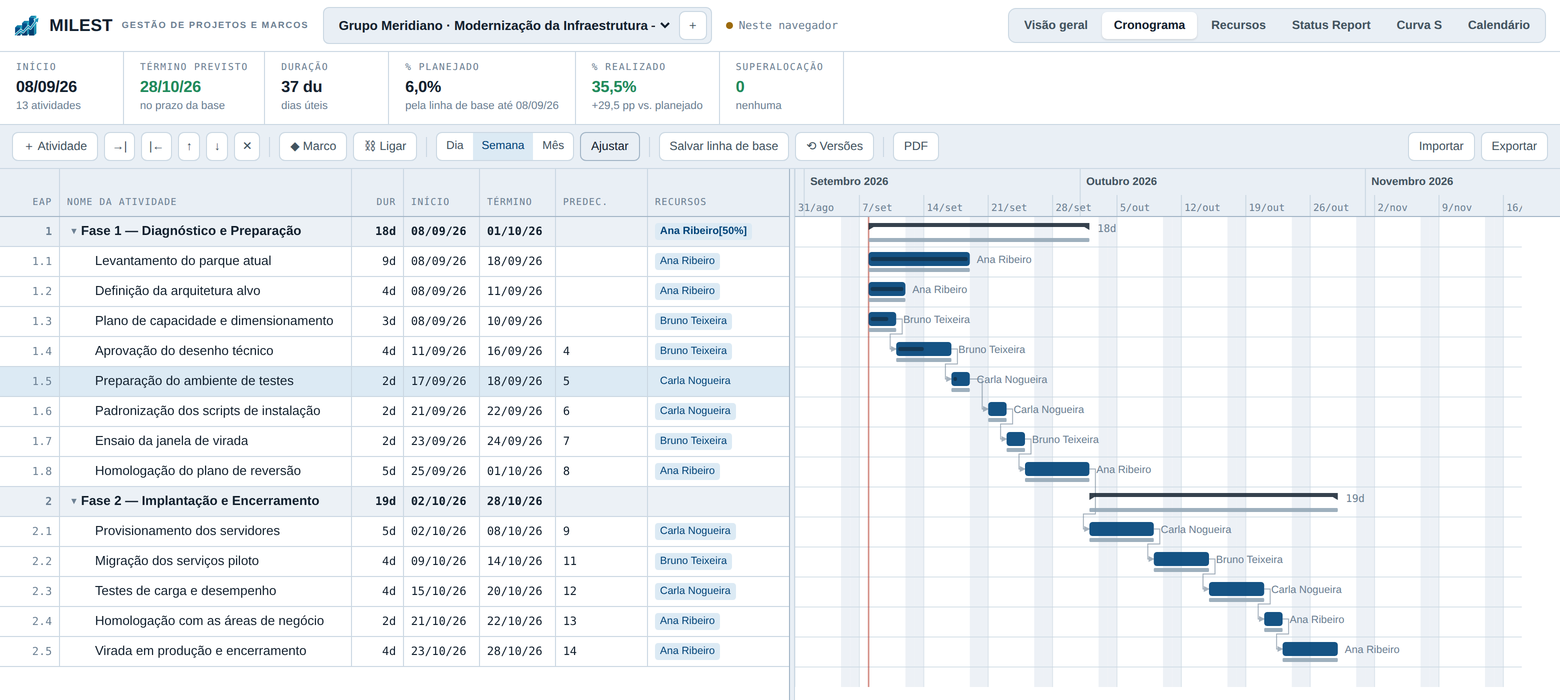
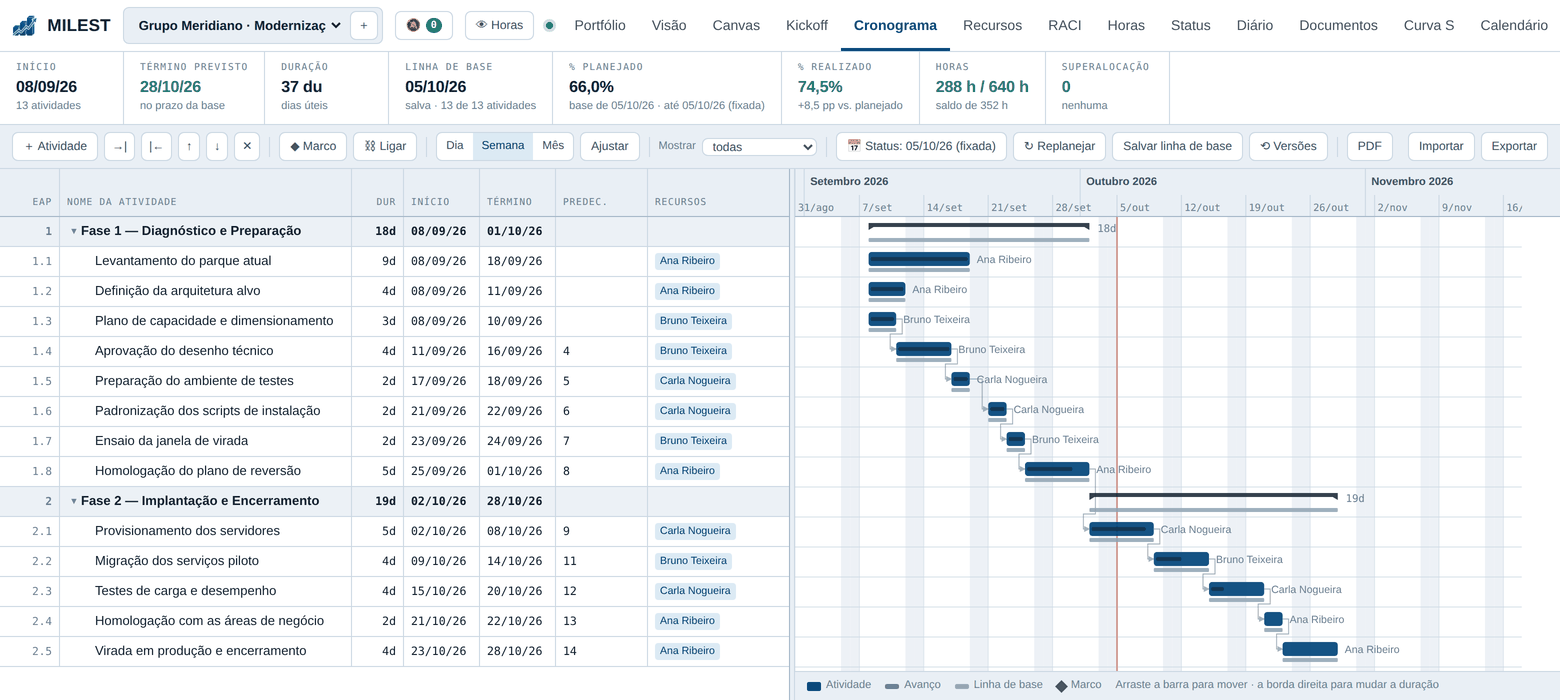
A landing conta o que o MILEST virou desde setembro
A página vendia cronograma, curva S e status report. De lá para cá entraram
RACI, kickoff, diário com tabelas, status report por e-mail, cronograma como
imagem, porte e situação da carteira, pesquisa de satisfação e backup diário
— e a captura do topo ainda mostrava uma barra de abas com seis itens, quando
hoje são treze. Era essa imagem, mais do que o texto, que datava a página.

Seis recursos novos na grade (que fecha em 15, cinco fileiras de três, sem
buraco) e um item novo em segurança, com a grade passando a duas colunas para
os quatro fecharem dois a dois. Os dois cartões de status report viraram um:
era o mesmo recurso descrito duas vezes, uma com entrega.

A captura do topo foi gerada de novo a partir do app construído, com o mesmo
projeto fictício de antes — Grupo Meridiano —, agora com linha de base salva,
horas lançadas e avanço coerente com a data de status. Continuar com o mesmo
cliente inventado faz a troca ser de atualidade, não de história. E ficou
menor que a anterior: 131 KB contra 314 KB.

O que NÃO entrou, de propósito: o apontamento por analista, que foi construído
hoje e nunca rodou com gente de verdade, e o envio automático do status report
em dia e hora marcados, que tem tela mas não tem o automático. Prometer antes
de usar é o jeito mais rápido de queimar um lançamento.

O vídeo continua o mesmo — eu não tenho como gravá-lo. ROTEIRO-VIDEO.md traz
as sete cenas, o tempo de cada uma, o que preparar antes e o que deixar de
[…]

diff --git a/site/index.html b/site/index.html
@@ -271,7 +271,7 @@ h3{font-size:19px;font-weight:700}
 .seg .rotulo{color:var(--ciano-vivo)}
 .seg .rotulo::before{background:var(--ciano-vivo)}
 .seg .sub{color:#A9C6D6}
-.seg-grid{display:grid;grid-template-columns:repeat(3,1fr);gap:28px;margin-top:40px}
+.seg-grid{display:grid;grid-template-columns:repeat(2,1fr);gap:28px;margin-top:40px}
 .seg-item{padding:26px;border:1px solid rgba(255,255,255,.14);border-radius:10px;background:rgba(255,255,255,.04)}
 .seg-item h3{color:#fff;font-size:17px;margin-bottom:9px}
 .seg-item p{margin:0;font-size:15.5px;color:#A9C6D6;line-height:1.55}
@@ -446,8 +446,9 @@ section[id]{scroll-margin-top:80px}
         <p class="oferta"><b>15 dias grátis</b> sem cartão de crédito</p>
         <h1>Software de <em>gestão de projetos</em> com governança e controle</h1>
         <p class="lead">
-          Cronograma que calcula o caminho crítico, curva S que mostra o avanço real e o status
-          report pronto para a reunião — no mesmo lugar, sem exportar nada para o PowerPoint.
+          Do kickoff ao status report, no mesmo lugar: cronograma que calcula o caminho crítico,
+          curva S com o avanço real e as folhas que você apresenta saindo prontas — sem passar
+          pelo PowerPoint.
         </p>
         <div class="acoes">
           <a class="btn btn-p" href="#avaliacao">Começar avaliação de 15 dias</a>
@@ -456,12 +457,13 @@ section[id]{scroll-margin-top:80px}
         <div class="selos">
           <span>CPM · TI, II, TT e IT</span>
           <span>Curva S física</span>
+          <span>Kickoff e RACI</span>
           <span>Relatórios em PDF</span>
         </div>
       </div>
       <figure class="tela" style="margin:0">
         <img src="img/cronograma.png" width="1560" height="700"
-             alt="Tela do MILEST: cronograma em Gantt com fases, dependências, folgas e percentual concluído.">
+             alt="Tela do MILEST: cronograma em Gantt com fases, dependências, linha de base, horas lançadas e percentual concluído.">
       </figure>
     </div>
   </section>
@@ -507,8 +509,8 @@ section[id]{scroll-margin-top:80px}
           <svg viewBox="0 0 24 24" fill="none" stroke="currentColor" stroke-width="1.6" stroke-linecap="round" stroke-linejoin="round" aria-hidden="true">
             <rect x="3" y="4" width="18" height="14" rx="2"/><path d="M7 9h6M7 13h10M8 21h8"/>
           </svg>
-          <h3>Relatório pronto para a reunião</h3>
-          <p>Status report em folha 16:9 e o cronograma inteiro em uma página de PDF. Com a sua marca, sem passar pelo PowerPoint.</p>
+          <h3>Apresentação pronta para a reunião</h3>
+          <p>Kickoff, status report e matriz RACI em folha 16:9, e o cronograma inteiro em uma página. Com a sua marca, sem passar pelo PowerPoint.</p>
         </article>
       </div>
     </div>
@@ -556,9 +558,24 @@ section[id]{scroll-margin-top:80px}
           <p>Cadastro único de pessoas, compartilhado entre os cronogramas, com a carga diária e o alerta de superalocação.</p>
         </article>
         <article class="rec">
+          <span class="n">Controle</span>
+          <h3>Porte e situação da carteira</h3>
+          <p>Cada projeto classificado por tamanho, pelas horas previstas, e a situação ajustável à mão — porque nem todo projeto com indicador bom merece passar batido na sua apresentação.</p>
+        </article>
+        <article class="rec">
+          <span class="n">Governança</span>
+          <h3>Matriz RACI</h3>
+          <p>Quem executa, quem responde, quem é consultado e quem é informado — pela sua equipe e pela do cliente, fase a fase. Sai em PDF para a ata e em imagem para a conversa.</p>
+        </article>
+        <article class="rec">
+          <span class="n">Governança</span>
+          <h3>Apresentação de kickoff</h3>
+          <p>Equipes, objetivo, escopo, premissas, o que fica fora, plano de comunicação, próximos passos e atividades macro — mesmo antes de existir cronograma. Vira um PDF 16:9 com a sua marca.</p>
+        </article>
+        <article class="rec">
           <span class="n">Relatórios</span>
           <h3>Status report em um clique</h3>
-          <p>Folha 16:9 com indicadores, curva S, entregas, riscos e as atividades concluídas na semana. Em PNG ou PDF.</p>
+          <p>Folha 16:9 com indicadores, curva S, entregas, riscos e as atividades concluídas na semana. Em PNG, em PDF, ou por e-mail para os destinatários do projeto — com o PDF em anexo, saindo do seu domínio e com o envio registrado.</p>
         </article>
         <article class="rec">
           <span class="n">Relatórios</span>
@@ -567,8 +584,23 @@ section[id]{scroll-margin-top:80px}
         </article>
         <article class="rec">
           <span class="n">Operação</span>
+          <h3>Diário de acompanhamento</h3>
+          <p>O que aconteceu, no dia em que aconteceu, com tabelas que você monta ou traz de uma planilha. Vai para o cliente por e-mail, em PDF ou em imagem — sem a planilha paralela de sempre.</p>
+        </article>
+        <article class="rec">
+          <span class="n">Operação</span>
+          <h3>Cronograma como imagem</h3>
+          <p>O cronograma inteiro numa imagem para colar no e-mail ou mandar pelo WhatsApp, com filtro por avanço quando ele é grande demais para caber legível.</p>
+        </article>
+        <article class="rec">
+          <span class="n">Operação</span>
           <h3>Importação de planilha</h3>
           <p>Traga 50 atividades de uma vez pelo modelo em Excel, com fases, durações, predecessoras e recursos.</p>
+        </article>
+        <article class="rec">
+          <span class="n">Operação</span>
+          <h3>Pesquisa de satisfação</h3>
+          <p>Um link por projeto, que o cliente responde sem criar conta nem instalar nada. O resultado volta para dentro da carteira, junto dos indicadores.</p>
         </article>
       </div>
     </div>
@@ -637,6 +669,10 @@ section[id]{scroll-margin-top:80px}
         <article class="seg-item">
           <h3>Quem entra, você decide</h3>
           <p>O administrador da empresa cadastra a pessoa, entrega uma senha temporária e ela define a dela no primeiro acesso. Suspender corta o acesso na hora, sem apagar o histórico.</p>
+        </article>
+        <article class="seg-item">
+          <h3>Cópia de segurança diária</h3>
+          <p>Todo dia, automaticamente, uma cópia completa dos seus projetos é gerada e guardada fora do sistema. Restaurar é escolher o arquivo — e dá para baixar a sua cópia quando quiser, sem pedir a ninguém.</p>
         </article>
       </div>
     </div>

diff --git a/site/ROTEIRO-VIDEO.md b/site/ROTEIRO-VIDEO.md
@@ -1,0 +1,152 @@
+# Roteiro do vídeo de demonstração — MILEST
+
+Para regravar o `site/video/milest-tour.mp4`. Duração alvo: **1min50 a 2min**.
+O vídeo atual tem cerca de um minuto e cobre cronograma, curva e status report;
+o produto cresceu e o tour precisa mostrar que ele resolve o pacote inteiro —
+do kickoff ao e-mail para o cliente.
+
+---
+
+## Antes de gravar
+
+**Projeto de demonstração.** Use um projeto fictício, não um cliente real. O que
+está nas imagens do site é "Grupo Meridiano · Modernização da Infraestrutura",
+13 atividades em duas fases, com Ana Ribeiro, Bruno Teixeira e Carla Nogueira
+na equipe. Reaproveitar os mesmos nomes faz o vídeo e a página contarem a mesma
+história.
+
+Deixe pronto, antes de apertar o gravador:
+
+- cronograma com as duas fases, dependências e **linha de base salva**
+- avanço preenchido (primeira fase concluída, segunda em andamento)
+- algumas horas lançadas, para o quadro de horas não aparecer zerado
+- RACI preenchida
+- aba Kickoff preenchida
+- uma entrada no Diário, com uma tabela
+- dois ou três projetos na carteira, para o Portfólio não ter uma linha só
+
+**Técnico.** Grave a 1920×1080, janela do navegador em tela cheia, zoom em 100%,
+cursor normal. Nada de abas pessoais à mostra. Sem áudio: a narração abaixo vira
+legenda na tela, em caixas curtas — é assim que o vídeo funciona quando toca
+sem som, que é como quase todo mundo vai vê-lo.
+
+**Ritmo.** Cada cena abaixo tem um tempo. Pausa de meio segundo antes de cada
+clique, para o olho acompanhar. Nada de mexer o mouse sem motivo.
+
+---
+
+## Cena 1 — O problema, em uma tela (0:00 – 0:12)
+
+**Mostre:** a aba **Portfólio**, com três ou quatro projetos.
+
+**Faça:** nada. Deixe parado 3 segundos e passe o mouse devagar pela coluna de
+situação.
+
+**Legenda:** *"Toda a carteira numa tela: prazo, avanço, IDP e IDC — calculados,
+não digitados."*
+
+> Começar pelo portfólio e não pelo cronograma é de propósito. Quem decide a
+> compra é quem olha a carteira; quem usa todo dia é quem olha o cronograma.
+
+---
+
+## Cena 2 — Cronograma que calcula (0:12 – 0:35)
+
+**Mostre:** aba **Cronograma**.
+
+**Faça, nesta ordem:**
+1. Arraste a barra de uma atividade dois dias para a frente. Deixe as
+   sucessoras se moverem sozinhas. **(3s de pausa aqui — é o momento que vende)**
+2. Clique no `%` de uma atividade e escolha 75%.
+3. Clique em **Ajustar** para o cronograma caber na tela.
+
+**Legenda 1:** *"Caminho crítico recalculado a cada mudança."*
+**Legenda 2:** *"Dependências de verdade: TI, II, TT e IT, com atraso."*
+
+---
+
+## Cena 3 — Kickoff (0:35 – 0:52) · **novo**
+
+**Mostre:** aba **Kickoff**, já preenchida.
+
+**Faça:** role de cima a baixo devagar, pare em *Plano de comunicação*, e clique
+em **Baixar PDF**. Mostre a primeira folha do PDF que abre — a capa com a marca.
+
+**Legenda:** *"A apresentação de abertura sai do sistema, com a sua marca — e
+antes mesmo de existir cronograma."*
+
+---
+
+## Cena 4 — RACI (0:52 – 1:05) · **novo**
+
+**Mostre:** aba **RACI**.
+
+**Faça:** clique numa célula vazia e marque um **R**. Depois clique em
+**Exportar** e mostre a folha gerada.
+
+**Legenda:** *"Quem executa, quem responde, quem é consultado e quem é
+informado — da sua equipe e da do cliente."*
+
+---
+
+## Cena 5 — Curva S (1:05 – 1:18)
+
+**Mostre:** aba **Curva S**.
+
+**Faça:** passe o mouse sobre o ponto da data de status, para aparecer o valor.
+
+**Legenda:** *"Avanço físico medido pelo peso das atividades. Previsto, linha de
+base e realizado na mesma escala."*
+
+---
+
+## Cena 6 — Status report e o e-mail (1:18 – 1:45)
+
+**Mostre:** aba **Status**.
+
+**Faça, nesta ordem:**
+1. Mostre a folha montada, rolando até o fim. **(4s)**
+2. Clique em **Enviar por e-mail**.
+3. Mostre a janela com os destinatários e o texto já preenchido.
+4. **Não envie.** Feche a janela. (Se quiser mostrar o envio, use o botão de
+   teste, que manda só para você — e corte antes de aparecer qualquer e-mail
+   real de cliente.)
+
+**Legenda 1:** *"O status report se monta sozinho a partir do cronograma."*
+**Legenda 2:** *"E vai para o cliente por e-mail, com o PDF em anexo, saindo do
+seu domínio."*
+
+---
+
+## Cena 7 — Fecho (1:45 – 1:55)
+
+**Mostre:** volte ao **Portfólio**.
+
+**Legenda:** *"Um lugar só. 15 dias grátis, sem cartão."*
+**Último quadro:** a marca MILEST sobre fundo claro, com `milest.com.br`.
+
+---
+
+## O que NÃO entra neste vídeo
+
+- **Apontamento de horas por analista.** Está construído, mas ainda não foi
+  publicado nem usado por ninguém de verdade. Entra no tour depois que rodar
+  algumas semanas em uso real — e aí vale uma cena própria, porque é o
+  argumento mais forte para empresas pequenas e médias.
+- **Envio automático do status report em dia e hora marcados.** A tela de
+  agendamento existe, o envio automático ainda não. Mostrar a tela sem o
+  funcionamento é prometer o que não há.
+- **Qualquer dado de cliente real.** Nome, logo, valores, nomes de pessoas.
+
+---
+
+## Depois de gravar
+
+1. Exporte em MP4, H.264, 1920×1080. Mire em **menos de 6 MB** — o arquivo atual
+   tem 3,7 MB e é o que mantém a página rápida no celular. Se passar muito
+   disso, baixe o bitrate antes de baixar a resolução.
+2. Substitua `site/video/milest-tour.mp4`.
+3. Gere um novo pôster (o primeiro quadro bom, a 1920×1080, em JPG) e substitua
+   `site/video/milest-tour-poster.jpg`. O pôster é o que aparece antes de o
+   vídeo tocar, e hoje é ele que a maioria dos visitantes vê.
+4. Publique com `firebase deploy --only hosting:site`.
